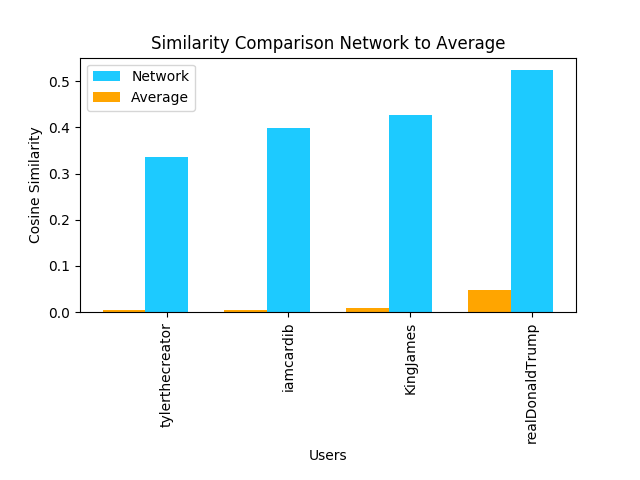
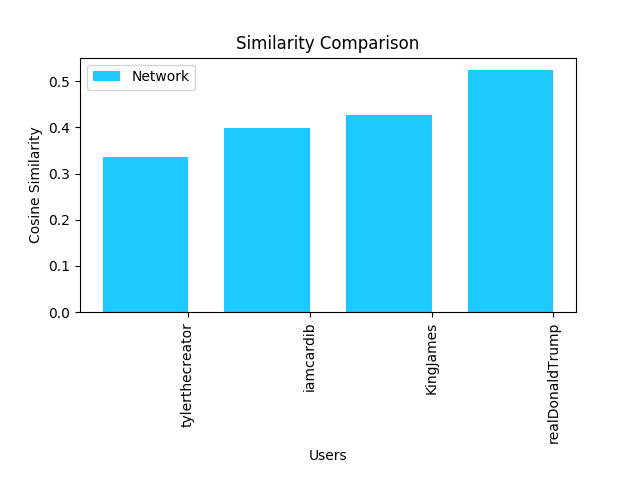
similarity chart without average

diff --git a/similarity_plot.py b/similarity_plot.py
@@ -15,15 +15,21 @@ screenNames = [
     'iamcardib'
 ]
 dpoints = []
-filename = 'similarity-chart.png'
-title = 'Similarity Comparison Network to Average'
+if sys.argv[1] == 'avg':
+    filename = 'similarity-avg-chart.png'
+    title = 'Similarity Comparison Network to Average'
+else:
+    filename = 'similarity-chart.png'
+    title = 'Similarity Comparison'
 for screenName in screenNames:
     networkSimilarityObject = json.loads(open('data/{}-similarity.json'.format(screenName), 'r').read())
-    avgSimilarityObject = json.loads(open('data/{}-avg-similarity.json'.format(screenName), 'r').read())
     networkSimilarity = networkSimilarityObject['similarity']
-    avgSimilarity = avgSimilarityObject['similarity']
     dpoints.append(['Network', screenName, networkSimilarity])
-    dpoints.append(['Average', screenName, avgSimilarity])
+    if sys.argv[1] == 'avg':
+        avgSimilarityObject = json.loads(open('data/{}-avg-similarity.json'.format(screenName), 'r').read())
+        avgSimilarity = avgSimilarityObject['similarity']
+        dpoints.append(['Average', screenName, avgSimilarity])
+
 
 dpoints = np.array(dpoints)
 
